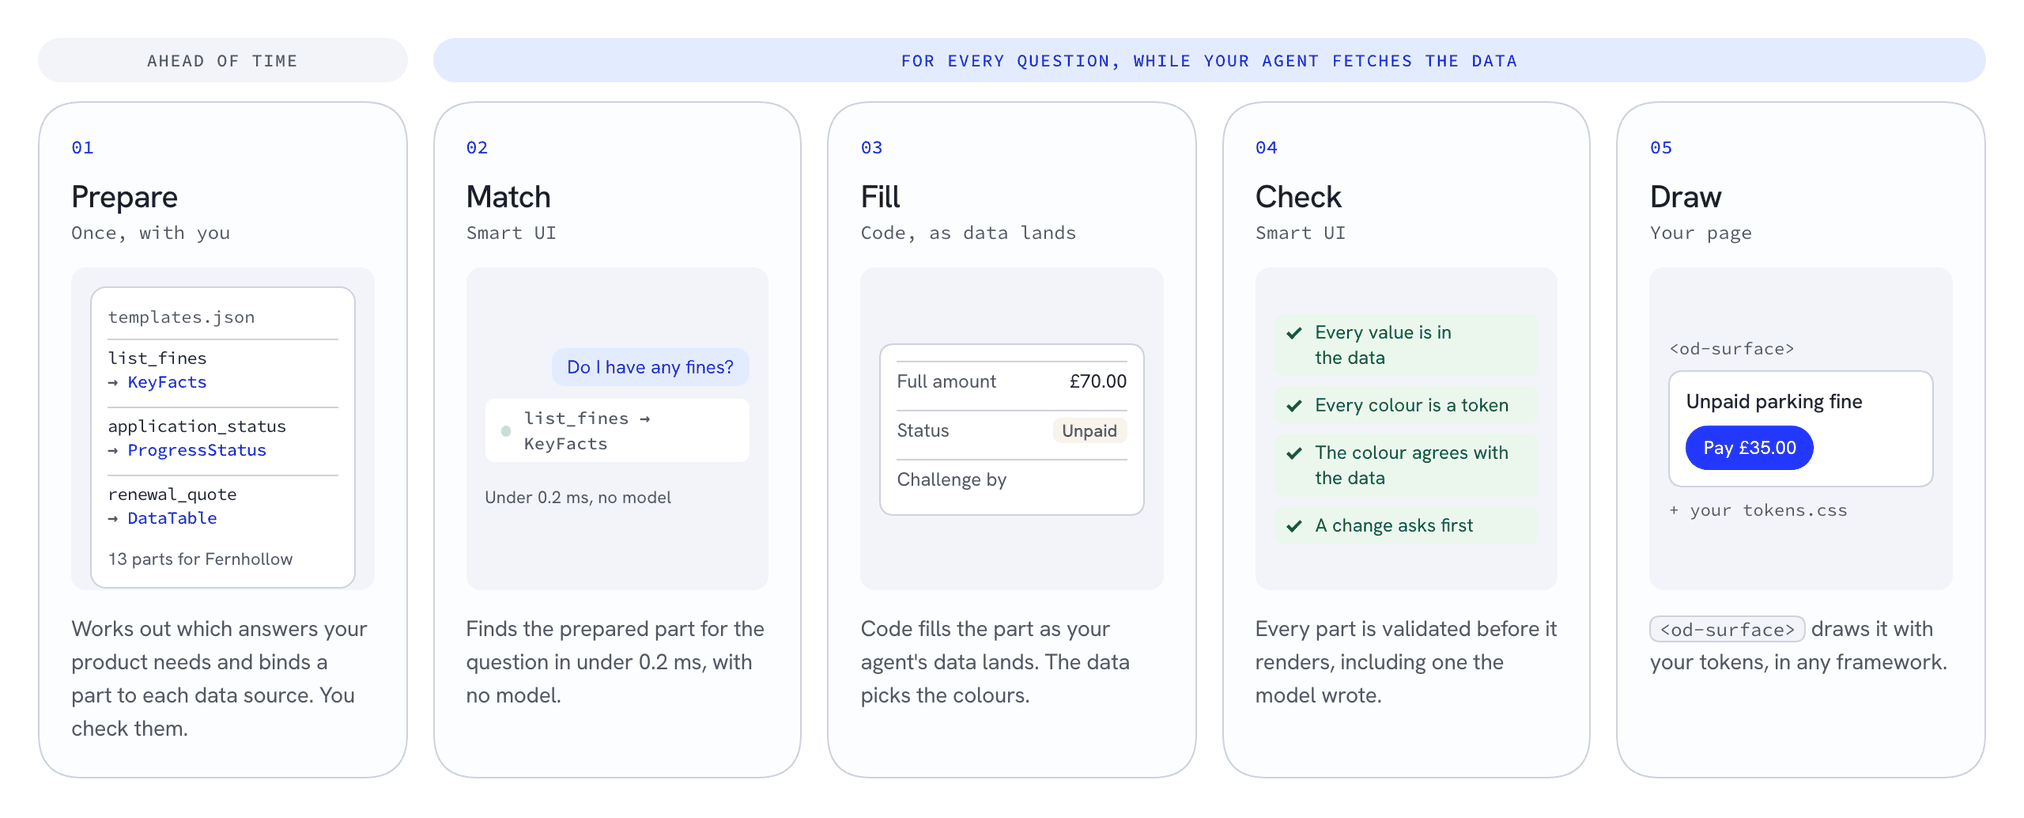
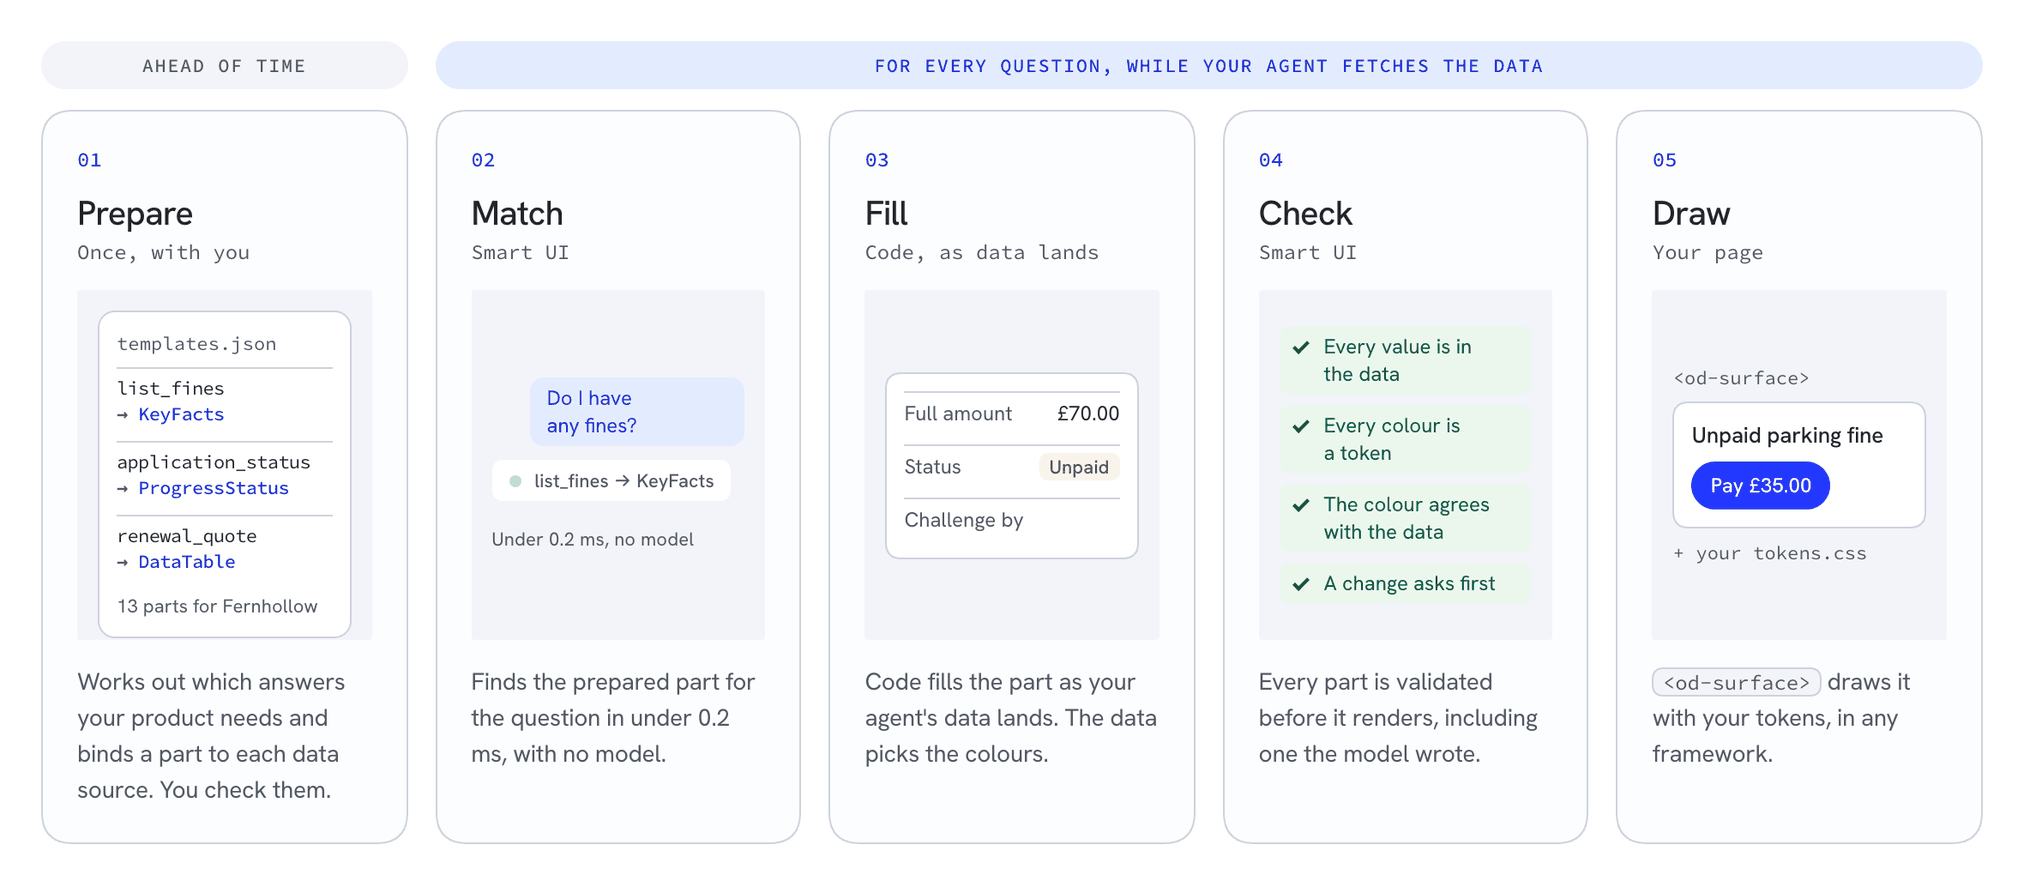
Site: Smart UI sentence under the part so nothing above it moves; autoplay and the consent card watch the chat window; README pictures from the current page

diff --git a/site/static/smart-ui-live.js b/site/static/smart-ui-live.js
@@ -37,7 +37,7 @@
       var io = new IntersectionObserver(function (es) {
         if (es.some(function (e) { return e.isIntersecting; })) { io.disconnect(); self.ask(self.product.scenarios[0]); }
       }, { threshold: 0.2 });
-      io.observe(root);
+      io.observe(root.querySelector(".sl-app") || root);  // the chat window: the root may lay out as display: contents
     } else {
       this.ask(this.product.scenarios[0]);
     }
@@ -149,15 +149,14 @@
       var ui = L.ui || [];
       // the UI agent: match a prepared part (or decide on text) and draw its outline at once
       if (ui[0]) await this.step(ui[0], id);
+      // the sentence goes under the part: it arrives last, so nothing above it moves when it does
       if (s.view) {
-        turn.append(say);
         part = this.build(s.view, true);
         if (ui[1]) await this.step(ui[1], id);
         turn.append(part.node);
         this.time("outline", t0);
-      } else {
-        turn.append(say);
       }
+      turn.append(say);
       await data;
       // no prepared part covers a change: the model writes the part first, then it fills and is checked like any other
       var w = (L.text || [])[0];

diff --git a/site/static/ph.js b/site/static/ph.js
@@ -91,7 +91,7 @@
     };
     // a page that opens on a live demo (/smart-ui/) shows the card only once the demo has left the screen, so it never covers it
     var later = function () {
-      var demo = document.querySelector(".su-hero [data-sl]");
+      var demo = document.querySelector(".su-hero .sl-app");
       if (!demo || !("IntersectionObserver" in window)) { setTimeout(show, 1500); return; }
       var io = new IntersectionObserver(function (es) { if (!es[0].isIntersecting) { io.disconnect(); setTimeout(show, 300); } });
       io.observe(demo);
